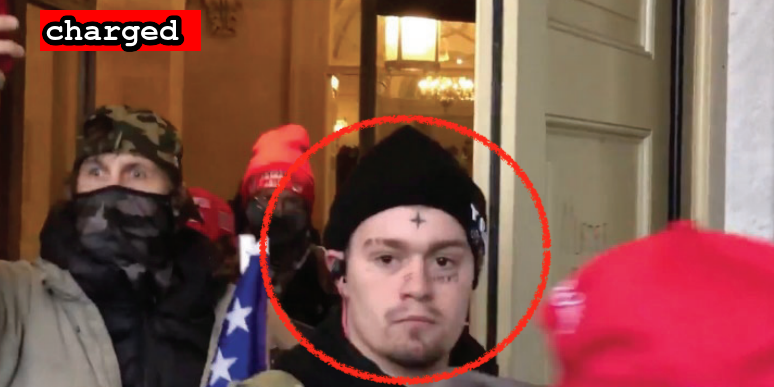
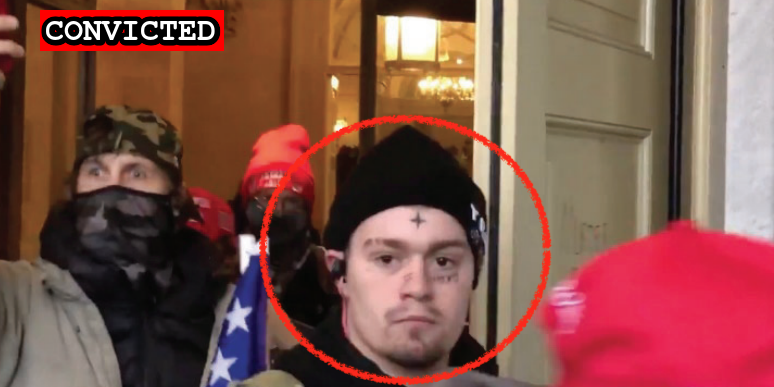
New conviction

Changed region(s): [[0.031, 0.0, 0.3101, 0.155]]

diff --git a/docs/_suspects/israel-tutrow.md b/docs/_suspects/israel-tutrow.md
@@ -4,15 +4,15 @@ lastName: Tutrow
 hashtag: IsraelTutrow
 aka:
 residence: Indiana
-status: Charged
+status: Convicted
 date: 2021-01-27
 charged: 2021-01-27
 indicted:
-convicted: 
-sentenced: 
-dismissed: 
+convicted: 2021-10-06
+sentenced:
+dismissed:
 deceased:
-plea_hearing:
+plea_hearing: 2021-10-06
 sentencing:
 age: 22
 occupation:
@@ -34,9 +34,14 @@ published: true
 caseNumber: 1:21-cr-310
 videos:
 charges:
+- code: 18 USC § 5104(e)(2)(G)
+  title: Parading, demonstrating or picketing in a Capitol building
+  url: https://www.law.cornell.edu/uscode/text/40/5104
+  felony: false
 sentence:
 ---
 - [News Report](https://www.indystar.com/story/news/crime/2021/01/26/capitol-riot-fbi-insurrection-indiana-men-facing-federal-charges/4269649001/)
 - [Complaint](https://www.justice.gov/opa/page/file/1360941/download)
 - [Statement of Facts](https://www.justice.gov/opa/page/file/1360941/download)
 - [Information](https://www.justice.gov/usao-dc/case-multi-defendant/file/1389121/download)
+- [Plea Agreement](https://extremism.gwu.edu/sites/g/files/zaxdzs2191/f/Israel%20Tutrow%20Plea%20Agreement.pdf)

diff --git a/docs/_suspects/james-bonet.md b/docs/_suspects/james-bonet.md
@@ -34,15 +34,15 @@ published: true
 caseNumber: 1:21-cr-121
 videos:
 charges:
-  - code: "18 USC § 1752(a)(1)"
-    title: "Entering a restricted building or grounds"
-    url: "https://www.law.cornell.edu/uscode/text/18/1752"
-    felony: false
+- code: 18 USC § 1752(a)(1)
+  title: Entering a restricted building or grounds
+  url: https://www.law.cornell.edu/uscode/text/18/1752
+  felony: false
 sentence:
 ---
-
 - [News Report](https://www.timesunion.com/news/article/No-weed-for-Glens-Falls-man-charged-in-attack-on-15903349.php)
 - [Complaint](https://www.justice.gov/opa/page/file/1361446/download)
 - [Statement of Facts](https://www.justice.gov/opa/page/file/1361446/download)
 - [Information](https://www.justice.gov/usao-dc/case-multi-defendant/file/1371606/download)
 - [Indictment](https://www.justice.gov/usao-dc/case-multi-defendant/file/1416916/download)
+- [Plea Agreement](https://extremism.gwu.edu/sites/g/files/zaxdzs2191/f/James%20Bonet%20Plea%20Agreement.pdf)

diff --git a/docs/_suspects/brandon-straka.md b/docs/_suspects/brandon-straka.md
@@ -34,14 +34,14 @@ published: true
 caseNumber: 1:21-mj-134
 videos:
 charges:
-  - code: 18 USC § 5104(e)(2)(D)
-    title: Disorderly Conduct in a Capitol Building
-    url: https://www.law.cornell.edu/uscode/text/40/5104
-    felony: false
+- code: 18 USC § 5104(e)(2)(D)
+  title: Disorderly Conduct in a Capitol Building
+  url: https://www.law.cornell.edu/uscode/text/40/5104
+  felony: false
 sentence:
 ---
-
 - [News Report](https://www.thedailybeast.com/brandon-straka-right-wing-activist-banned-from-airline-is-charged-in-riots)
 - [Complaint](https://assets.documentcloud.org/documents/20463392/1-20-21-us-v-brandon-straka-complaint-affidavit.pdf)
 - [Statement of Facts](https://www.justice.gov/opa/page/file/1360091/download)
 - [Information](https://extremism.gwu.edu/sites/g/files/zaxdzs2191/f/Brandon%20Straka%20Superseding%20Information.pdf)
+- [Plea Agreement](https://extremism.gwu.edu/sites/g/files/zaxdzs2191/f/Brandon%20Straka%20Plea%20Agreement.pdf)
